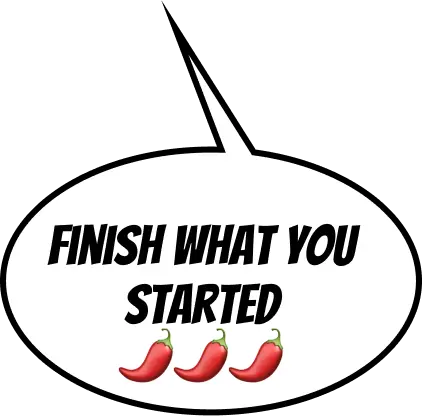
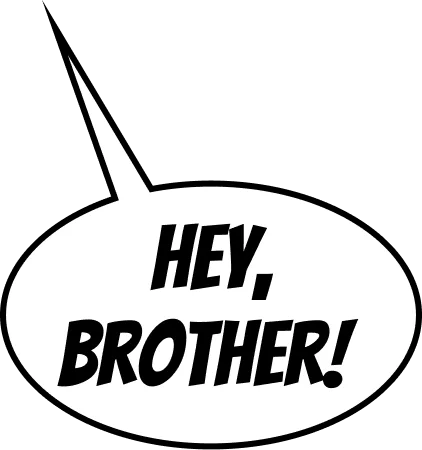
add bleak vithin for finel scen

Changed region(s): [[0.0, 0.0, 1.0, 1.0], [0.3697, 0.0, 0.4005, 0.0312]]

diff --git a/index.html b/index.html
@@ -30,13 +30,13 @@
         user-select: none;
     }
     #wowEffect { 
-        display: none; position: absolute; z-index: 10; width: 45%; height: auto; 
+        display: none; position: absolute; z-index: 20; width: 45%; height: auto; 
         top: 35%; left: 55%; transform: translate(-50%, -50%); pointer-events: none; 
         animation: buttonPulse 3.5s infinite ease-in-out; 
     }
 
     #ctaButton { 
-        display: none; position: absolute; z-index: 11; bottom: 15%; left: 50%; 
+        display: none; position: absolute; z-index: 21; bottom: 15%; left: 50%; 
         width: 80%; height: auto; transform: translateX(-50%); cursor: pointer; 
         animation: buttonPulse 1.8s infinite ease-in-out; 
     }
@@ -52,6 +52,17 @@
     @keyframes outlinePulse { 0%, 100% { opacity: 0.3; } 50% { opacity: 1; } }
     .arrow { position: absolute; height: 60px; width: 60px; z-index: 4; animation: arrowFade 1.2s infinite; transform: translate(-50%, -50%); }
     @keyframes arrowFade { 0%, 100% { opacity: 0.3; } 50% { opacity: 1; } }
+    #overlay {
+        position: absolute;
+        inset: 0;
+        background: rgba(0, 0, 0, 0.9);
+        z-index: 15; 
+        opacity: 0;
+        transition: opacity 0.8s ease;
+        pointer-events: none;
+    }
+
+
 </style>
 </head>
 <body>
@@ -61,6 +72,7 @@
        <video id="bgAnimation" class="bg-img" autoplay loop muted playsinline>
                  <source src="assets/Comp 1.webm" type="video/webm">
         </video>
+        <div id="overlay"></div>
         <img src="assets/wow.webp" id="wowEffect">
         <img src="assets/button.webp" id="ctaButton">
         <canvas id="canvas"></canvas>
@@ -116,7 +128,7 @@ function toggleMute(e) {
 
     muteBtn.innerText = isMuted ? '🔇' : '🔊';
     
-    console.log("Muted status:", isMuted); // Для перевірки в консолі
+    console.log("Muted status:", isMuted); 
 }
 
 
@@ -224,7 +236,9 @@ function checkProgress() {
 function finishGame() {
     if (finished) return;
     finished = true;
-    soundStart.pause(); soundAlmost.pause(); 
+    soundStart.pause(); soundAlmost.pause();
+    const overlay = document.getElementById('overlay');
+    overlay.style.opacity = '1'; 
     ctx.clearRect(0, 0, canvas.width, canvas.height);
     sponge.style.display = 'none'; outline.style.display = 'none';
     wowEffect.style.display = 'block'; ctaButton.style.display = 'block';
@@ -236,7 +250,7 @@ function startInteraction(clientX, clientY) {
     if (finished) return;
     
     if (!audioUnlocked) {
-        bgMusic.volume = 0.2; // Встановлюємо гучність
+        bgMusic.volume = 0.09; 
         bgMusic.play().catch(error => {
             console.log("Помилка відтворення:", error);
         });